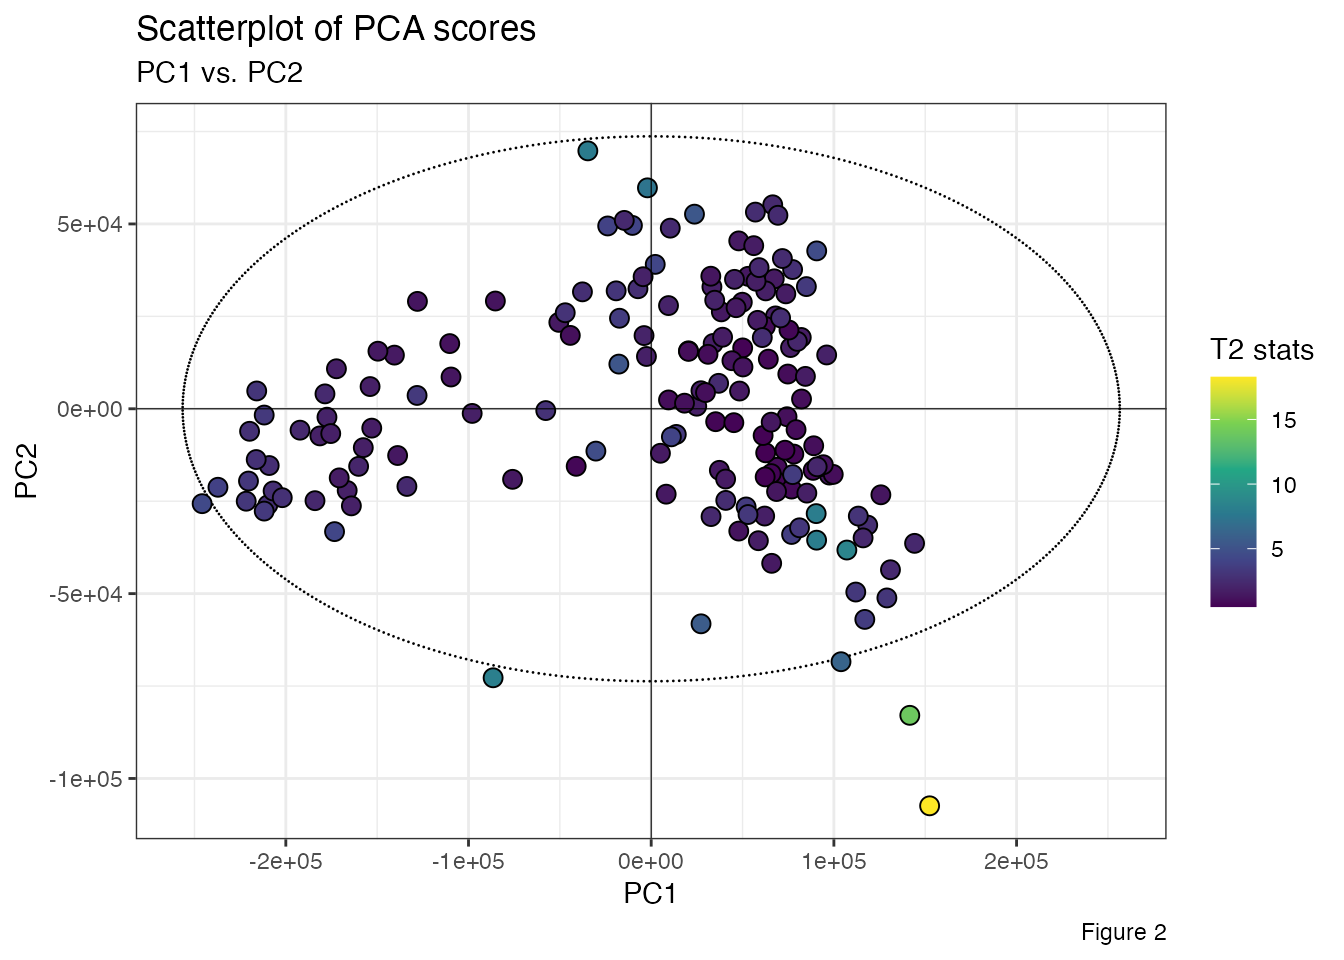
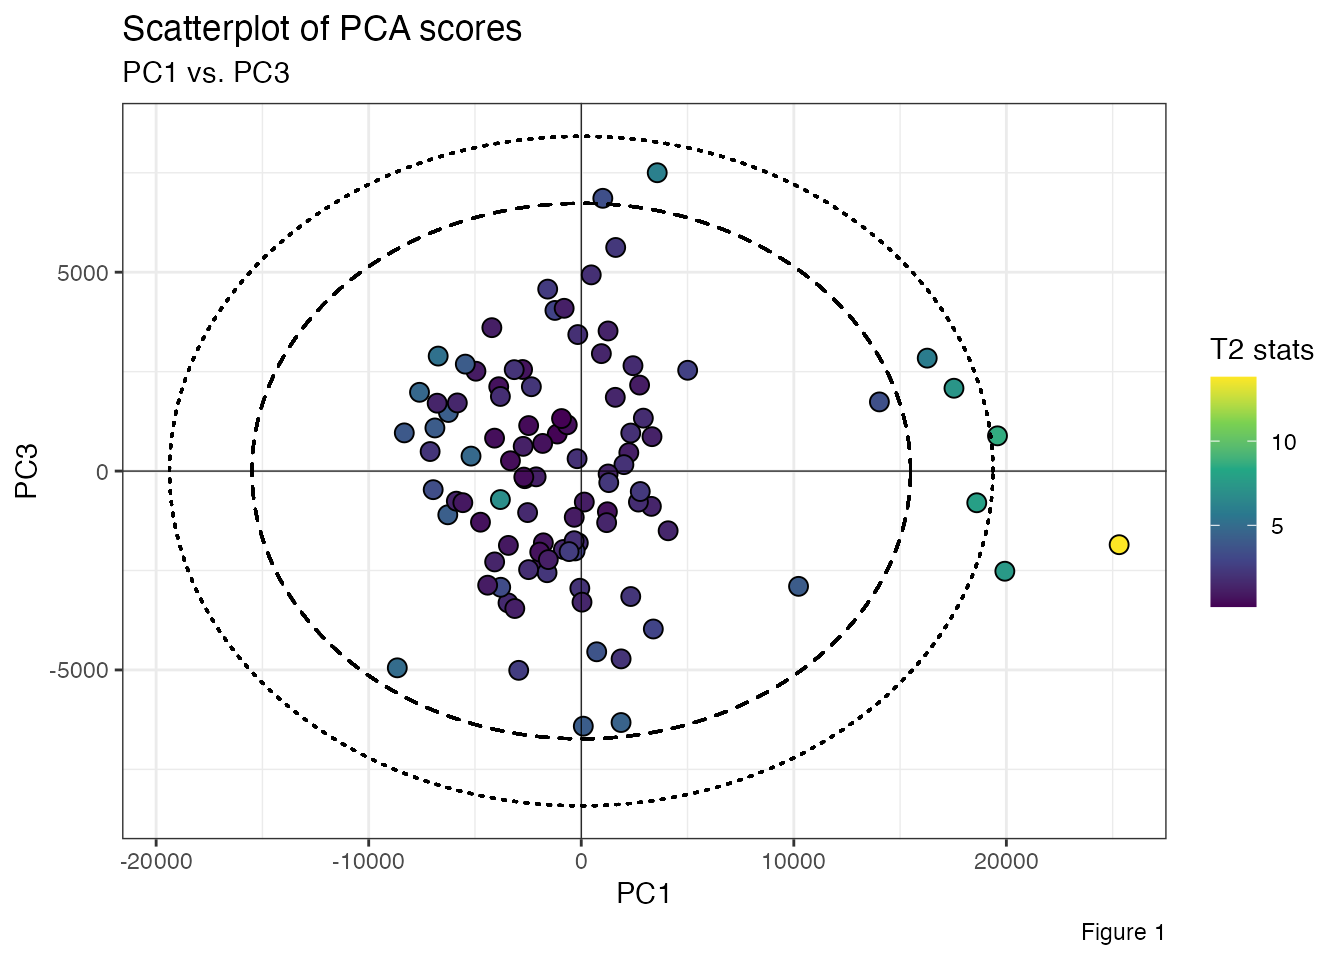
Minor update

diff --git a/docs/articles/HotellingEllipse.html b/docs/articles/HotellingEllipse.html
@@ -112,9 +112,8 @@
 <div class="sourceCode" id="cb4"><pre class="downlit sourceCode r">
 <code class="sourceCode R"><span><span class="va">pca_scores</span> <span class="op">&lt;-</span> <span class="va">pca_mod</span> <span class="op"><a href="../reference/pipe.html">%&gt;%</a></span></span>
 <span>  <span class="fu">pluck</span><span class="op">(</span><span class="st">"ind"</span>, <span class="st">"coord"</span><span class="op">)</span> <span class="op"><a href="../reference/pipe.html">%&gt;%</a></span></span>
-<span>  <span class="fu"><a href="https://tibble.tidyverse.org/reference/as_tibble.html" class="external-link">as_tibble</a></span><span class="op">(</span><span class="op">)</span></span></code></pre></div>
-<div class="sourceCode" id="cb5"><pre class="downlit sourceCode r">
-<code class="sourceCode R"><span><span class="va">pca_scores</span></span>
+<span>  <span class="fu"><a href="https://tibble.tidyverse.org/reference/as_tibble.html" class="external-link">as_tibble</a></span><span class="op">(</span><span class="op">)</span> <span class="op"><a href="../reference/pipe.html">%&gt;%</a></span></span>
+<span>  <span class="fu"><a href="https://rdrr.io/r/base/print.html" class="external-link">print</a></span><span class="op">(</span><span class="op">)</span></span>
 <span><span class="co">#&gt; <span style="color: #949494;"># A tibble: 100 × 5</span></span></span>
 <span><span class="co">#&gt;      Dim.1    Dim.2  Dim.3   Dim.4 Dim.5</span></span>
 <span><span class="co">#&gt;      <span style="color: #949494; font-style: italic;">&lt;dbl&gt;</span>    <span style="color: #949494; font-style: italic;">&lt;dbl&gt;</span>  <span style="color: #949494; font-style: italic;">&lt;dbl&gt;</span>   <span style="color: #949494; font-style: italic;">&lt;dbl&gt;</span> <span style="color: #949494; font-style: italic;">&lt;dbl&gt;</span></span></span>
@@ -133,39 +132,58 @@
 <div class="section level2">
 <h2 id="hotelling-ellipse-semi-axes">Hotelling ellipse: semi-axes<a class="anchor" aria-label="anchor" href="#hotelling-ellipse-semi-axes"></a>
 </h2>
-<p>To add a confidence ellipse, we use the function <code><a href="../reference/ellipseParam.html">ellipseParam()</a></code>. We want to compute the length of the ellipse semi-axes for bivariate data within the PC1-PC2 subspace. To do this, we set the number of components, k, to 2, while the pcx and pcy inputs are respectively set to 1 and 2.</p>
+<p>To add a confidence ellipse, we use the function <code><a href="../reference/ellipseParam.html">ellipseParam()</a></code>. We want to compute the length of the ellipse semi-axes for bivariate data within the PC1-PC3 subspace. To do this, we set the number of components, k, to 2, while the pcx and pcy inputs are respectively set to 1 and 3.</p>
+<div class="sourceCode" id="cb5"><pre class="downlit sourceCode r">
+<code class="sourceCode R"><span><span class="va">res</span> <span class="op">&lt;-</span> <span class="fu"><a href="../reference/ellipseParam.html">ellipseParam</a></span><span class="op">(</span>data <span class="op">=</span> <span class="va">pca_scores</span>, k <span class="op">=</span> <span class="fl">2</span>, pcx <span class="op">=</span> <span class="fl">1</span>, pcy <span class="op">=</span> <span class="fl">3</span><span class="op">)</span></span></code></pre></div>
 <div class="sourceCode" id="cb6"><pre class="downlit sourceCode r">
-<code class="sourceCode R"><span><span class="va">res</span> <span class="op">&lt;-</span> <span class="fu"><a href="../reference/ellipseParam.html">ellipseParam</a></span><span class="op">(</span>data <span class="op">=</span> <span class="va">pca_scores</span>, k <span class="op">=</span> <span class="fl">2</span>, pcx <span class="op">=</span> <span class="fl">1</span>, pcy <span class="op">=</span> <span class="fl">2</span><span class="op">)</span></span></code></pre></div>
-<div class="sourceCode" id="cb7"><pre class="downlit sourceCode r">
 <code class="sourceCode R"><span><span class="fu"><a href="https://rdrr.io/r/utils/str.html" class="external-link">str</a></span><span class="op">(</span><span class="va">res</span><span class="op">)</span></span>
 <span><span class="co">#&gt; List of 4</span></span>
 <span><span class="co">#&gt;  $ Tsquare     : tibble [100 × 1] (S3: tbl_df/tbl/data.frame)</span></span>
 <span><span class="co">#&gt;   ..$ value: num [1:100] 13.8 2.08 1.06 2.82 1.4 ...</span></span>
 <span><span class="co">#&gt;  $ Ellipse     : tibble [1 × 4] (S3: tbl_df/tbl/data.frame)</span></span>
 <span><span class="co">#&gt;   ..$ a.99pct: num 19369</span></span>
-<span><span class="co">#&gt;   ..$ b.99pct: num 10800</span></span>
+<span><span class="co">#&gt;   ..$ b.99pct: num 8416</span></span>
 <span><span class="co">#&gt;   ..$ a.95pct: num 15492</span></span>
-<span><span class="co">#&gt;   ..$ b.95pct: num 8639</span></span>
+<span><span class="co">#&gt;   ..$ b.95pct: num 6732</span></span>
 <span><span class="co">#&gt;  $ cutoff.99pct: num 9.76</span></span>
 <span><span class="co">#&gt;  $ cutoff.95pct: num 6.24</span></span></code></pre></div>
 <p>We can extract parameters for further use:</p>
 <ul>
 <li>Semi-axes of the ellipse at 99% confidence level.</li>
 </ul>
-<div class="sourceCode" id="cb8"><pre class="downlit sourceCode r">
+<div class="sourceCode" id="cb7"><pre class="downlit sourceCode r">
 <code class="sourceCode R"><span><span class="va">a1</span> <span class="op">&lt;-</span> <span class="fu">pluck</span><span class="op">(</span><span class="va">res</span>, <span class="st">"Ellipse"</span>, <span class="st">"a.99pct"</span><span class="op">)</span></span>
 <span><span class="va">b1</span> <span class="op">&lt;-</span> <span class="fu">pluck</span><span class="op">(</span><span class="va">res</span>, <span class="st">"Ellipse"</span>, <span class="st">"b.99pct"</span><span class="op">)</span></span></code></pre></div>
 <ul>
 <li>Semi-axes of the ellipse at 95% confidence level.</li>
 </ul>
-<div class="sourceCode" id="cb9"><pre class="downlit sourceCode r">
+<div class="sourceCode" id="cb8"><pre class="downlit sourceCode r">
 <code class="sourceCode R"><span><span class="va">a2</span> <span class="op">&lt;-</span> <span class="fu">pluck</span><span class="op">(</span><span class="va">res</span>, <span class="st">"Ellipse"</span>, <span class="st">"a.95pct"</span><span class="op">)</span></span>
 <span><span class="va">b2</span> <span class="op">&lt;-</span> <span class="fu">pluck</span><span class="op">(</span><span class="va">res</span>, <span class="st">"Ellipse"</span>, <span class="st">"b.95pct"</span><span class="op">)</span></span></code></pre></div>
 <ul>
 <li>Hotelling’s T<span class="math inline">\(^2\)</span> value.</li>
 </ul>
-<div class="sourceCode" id="cb10"><pre class="downlit sourceCode r">
+<div class="sourceCode" id="cb9"><pre class="downlit sourceCode r">
 <code class="sourceCode R"><span><span class="va">Tsq</span> <span class="op">&lt;-</span> <span class="fu">pluck</span><span class="op">(</span><span class="va">res</span>, <span class="st">"Tsquare"</span>, <span class="st">"value"</span><span class="op">)</span></span></code></pre></div>
+<div class="sourceCode" id="cb10"><pre class="downlit sourceCode r">
+<code class="sourceCode R"><span><span class="va">pca_scores</span> <span class="op"><a href="../reference/pipe.html">%&gt;%</a></span></span>
+<span>  <span class="fu">ggplot</span><span class="op">(</span><span class="fu">aes</span><span class="op">(</span>x <span class="op">=</span> <span class="va">Dim.1</span>, y <span class="op">=</span> <span class="va">Dim.3</span><span class="op">)</span><span class="op">)</span> <span class="op">+</span></span>
+<span>  <span class="fu">geom_point</span><span class="op">(</span><span class="fu">aes</span><span class="op">(</span>fill <span class="op">=</span> <span class="va">Tsq</span><span class="op">)</span>, shape <span class="op">=</span> <span class="fl">21</span>, size <span class="op">=</span> <span class="fl">3</span>, color <span class="op">=</span> <span class="st">"black"</span><span class="op">)</span> <span class="op">+</span></span>
+<span>  <span class="fu">scale_fill_viridis_c</span><span class="op">(</span>option <span class="op">=</span> <span class="st">"viridis"</span><span class="op">)</span> <span class="op">+</span></span>
+<span>  <span class="fu">geom_ellipse</span><span class="op">(</span><span class="fu">aes</span><span class="op">(</span>x0 <span class="op">=</span> <span class="fl">0</span>, y0 <span class="op">=</span> <span class="fl">0</span>, a <span class="op">=</span> <span class="va">a1</span>, b <span class="op">=</span> <span class="va">b1</span>, angle <span class="op">=</span> <span class="fl">0</span><span class="op">)</span>, size <span class="op">=</span> <span class="fl">.5</span>, linetype <span class="op">=</span> <span class="st">"dotted"</span><span class="op">)</span> <span class="op">+</span> </span>
+<span>  <span class="fu">geom_ellipse</span><span class="op">(</span><span class="fu">aes</span><span class="op">(</span>x0 <span class="op">=</span> <span class="fl">0</span>, y0 <span class="op">=</span> <span class="fl">0</span>, a <span class="op">=</span> <span class="va">a2</span>, b <span class="op">=</span> <span class="va">b2</span>, angle <span class="op">=</span> <span class="fl">0</span><span class="op">)</span>, size <span class="op">=</span> <span class="fl">.5</span>, linetype <span class="op">=</span> <span class="st">"dashed"</span><span class="op">)</span> <span class="op">+</span></span>
+<span>  <span class="fu">geom_hline</span><span class="op">(</span>yintercept <span class="op">=</span> <span class="fl">0</span>, linetype <span class="op">=</span> <span class="st">"solid"</span>, color <span class="op">=</span> <span class="st">"black"</span>, size <span class="op">=</span> <span class="fl">.2</span><span class="op">)</span> <span class="op">+</span></span>
+<span>  <span class="fu">geom_vline</span><span class="op">(</span>xintercept <span class="op">=</span> <span class="fl">0</span>, linetype <span class="op">=</span> <span class="st">"solid"</span>, color <span class="op">=</span> <span class="st">"black"</span>, size <span class="op">=</span> <span class="fl">.2</span><span class="op">)</span> <span class="op">+</span></span>
+<span>  <span class="fu">labs</span><span class="op">(</span></span>
+<span>    title <span class="op">=</span> <span class="st">"Scatterplot of PCA scores"</span>, </span>
+<span>    subtitle <span class="op">=</span> <span class="st">"PC1 vs. PC3"</span>, </span>
+<span>    x <span class="op">=</span> <span class="st">"PC1"</span>, </span>
+<span>    y <span class="op">=</span> <span class="st">"PC3"</span>, </span>
+<span>    fill <span class="op">=</span> <span class="st">"T2 stats"</span>, </span>
+<span>    caption <span class="op">=</span> <span class="st">"Figure 1"</span></span>
+<span>    <span class="op">)</span> <span class="op">+</span></span>
+<span>  <span class="fu">theme_bw</span><span class="op">(</span><span class="op">)</span></span></code></pre></div>
+<p><img src="HotellingEllipse_files/figure-html/unnamed-chunk-12-1.png" width="672" style="display: block; margin: auto;"></p>
 </div>
 <div class="section level2">
 <h2 id="hotelling-ellipse-x-and-y-coordinates">Hotelling ellipse: x and y coordinates<a class="anchor" aria-label="anchor" href="#hotelling-ellipse-x-and-y-coordinates"></a>

diff --git a/docs/reference/specData.html b/docs/reference/specData.html
@@ -1,5 +1,5 @@
 <!DOCTYPE html>
-<!-- Generated by pkgdown: do not edit by hand --><html lang="en"><head><meta http-equiv="Content-Type" content="text/html; charset=UTF-8"><meta charset="utf-8"><meta http-equiv="X-UA-Compatible" content="IE=edge"><meta name="viewport" content="width=device-width, initial-scale=1.0"><title>LIBS spectra of 100 soil samples — specData • HotellingEllipse</title><!-- favicons --><link rel="icon" type="image/png" sizes="16x16" href="../favicon-16x16.png"><link rel="icon" type="image/png" sizes="32x32" href="../favicon-32x32.png"><link rel="apple-touch-icon" type="image/png" sizes="180x180" href="../apple-touch-icon.png"><link rel="apple-touch-icon" type="image/png" sizes="120x120" href="../apple-touch-icon-120x120.png"><link rel="apple-touch-icon" type="image/png" sizes="76x76" href="../apple-touch-icon-76x76.png"><link rel="apple-touch-icon" type="image/png" sizes="60x60" href="../apple-touch-icon-60x60.png"><!-- jquery --><script src="https://cdnjs.cloudflare.com/ajax/libs/jquery/3.4.1/jquery.min.js" integrity="sha256-CSXorXvZcTkaix6Yvo6HppcZGetbYMGWSFlBw8HfCJo=" crossorigin="anonymous"></script><!-- Bootstrap --><link rel="stylesheet" href="https://cdnjs.cloudflare.com/ajax/libs/twitter-bootstrap/3.4.1/css/bootstrap.min.css" integrity="sha256-bZLfwXAP04zRMK2BjiO8iu9pf4FbLqX6zitd+tIvLhE=" crossorigin="anonymous"><script src="https://cdnjs.cloudflare.com/ajax/libs/twitter-bootstrap/3.4.1/js/bootstrap.min.js" integrity="sha256-nuL8/2cJ5NDSSwnKD8VqreErSWHtnEP9E7AySL+1ev4=" crossorigin="anonymous"></script><!-- bootstrap-toc --><link rel="stylesheet" href="../bootstrap-toc.css"><script src="../bootstrap-toc.js"></script><!-- Font Awesome icons --><link rel="stylesheet" href="https://cdnjs.cloudflare.com/ajax/libs/font-awesome/5.12.1/css/all.min.css" integrity="sha256-mmgLkCYLUQbXn0B1SRqzHar6dCnv9oZFPEC1g1cwlkk=" crossorigin="anonymous"><link rel="stylesheet" href="https://cdnjs.cloudflare.com/ajax/libs/font-awesome/5.12.1/css/v4-shims.min.css" integrity="sha256-wZjR52fzng1pJHwx4aV2AO3yyTOXrcDW7jBpJtTwVxw=" crossorigin="anonymous"><!-- clipboard.js --><script src="https://cdnjs.cloudflare.com/ajax/libs/clipboard.js/2.0.6/clipboard.min.js" integrity="sha256-inc5kl9MA1hkeYUt+EC3BhlIgyp/2jDIyBLS6k3UxPI=" crossorigin="anonymous"></script><!-- headroom.js --><script src="https://cdnjs.cloudflare.com/ajax/libs/headroom/0.11.0/headroom.min.js" integrity="sha256-AsUX4SJE1+yuDu5+mAVzJbuYNPHj/WroHuZ8Ir/CkE0=" crossorigin="anonymous"></script><script src="https://cdnjs.cloudflare.com/ajax/libs/headroom/0.11.0/jQuery.headroom.min.js" integrity="sha256-ZX/yNShbjqsohH1k95liqY9Gd8uOiE1S4vZc+9KQ1K4=" crossorigin="anonymous"></script><!-- pkgdown --><link href="../pkgdown.css" rel="stylesheet"><script src="../pkgdown.js"></script><meta property="og:title" content="LIBS spectra of 100 soil samples — specData"><meta property="og:description" content="A dataset containing the emission spectra of 171 soils measured in laboratory conditions.
+<!-- Generated by pkgdown: do not edit by hand --><html lang="en"><head><meta http-equiv="Content-Type" content="text/html; charset=UTF-8"><meta charset="utf-8"><meta http-equiv="X-UA-Compatible" content="IE=edge"><meta name="viewport" content="width=device-width, initial-scale=1.0"><title>LIBS spectra of 100 soil samples — specData • HotellingEllipse</title><!-- favicons --><link rel="icon" type="image/png" sizes="16x16" href="../favicon-16x16.png"><link rel="icon" type="image/png" sizes="32x32" href="../favicon-32x32.png"><link rel="apple-touch-icon" type="image/png" sizes="180x180" href="../apple-touch-icon.png"><link rel="apple-touch-icon" type="image/png" sizes="120x120" href="../apple-touch-icon-120x120.png"><link rel="apple-touch-icon" type="image/png" sizes="76x76" href="../apple-touch-icon-76x76.png"><link rel="apple-touch-icon" type="image/png" sizes="60x60" href="../apple-touch-icon-60x60.png"><!-- jquery --><script src="https://cdnjs.cloudflare.com/ajax/libs/jquery/3.4.1/jquery.min.js" integrity="sha256-CSXorXvZcTkaix6Yvo6HppcZGetbYMGWSFlBw8HfCJo=" crossorigin="anonymous"></script><!-- Bootstrap --><link rel="stylesheet" href="https://cdnjs.cloudflare.com/ajax/libs/twitter-bootstrap/3.4.1/css/bootstrap.min.css" integrity="sha256-bZLfwXAP04zRMK2BjiO8iu9pf4FbLqX6zitd+tIvLhE=" crossorigin="anonymous"><script src="https://cdnjs.cloudflare.com/ajax/libs/twitter-bootstrap/3.4.1/js/bootstrap.min.js" integrity="sha256-nuL8/2cJ5NDSSwnKD8VqreErSWHtnEP9E7AySL+1ev4=" crossorigin="anonymous"></script><!-- bootstrap-toc --><link rel="stylesheet" href="../bootstrap-toc.css"><script src="../bootstrap-toc.js"></script><!-- Font Awesome icons --><link rel="stylesheet" href="https://cdnjs.cloudflare.com/ajax/libs/font-awesome/5.12.1/css/all.min.css" integrity="sha256-mmgLkCYLUQbXn0B1SRqzHar6dCnv9oZFPEC1g1cwlkk=" crossorigin="anonymous"><link rel="stylesheet" href="https://cdnjs.cloudflare.com/ajax/libs/font-awesome/5.12.1/css/v4-shims.min.css" integrity="sha256-wZjR52fzng1pJHwx4aV2AO3yyTOXrcDW7jBpJtTwVxw=" crossorigin="anonymous"><!-- clipboard.js --><script src="https://cdnjs.cloudflare.com/ajax/libs/clipboard.js/2.0.6/clipboard.min.js" integrity="sha256-inc5kl9MA1hkeYUt+EC3BhlIgyp/2jDIyBLS6k3UxPI=" crossorigin="anonymous"></script><!-- headroom.js --><script src="https://cdnjs.cloudflare.com/ajax/libs/headroom/0.11.0/headroom.min.js" integrity="sha256-AsUX4SJE1+yuDu5+mAVzJbuYNPHj/WroHuZ8Ir/CkE0=" crossorigin="anonymous"></script><script src="https://cdnjs.cloudflare.com/ajax/libs/headroom/0.11.0/jQuery.headroom.min.js" integrity="sha256-ZX/yNShbjqsohH1k95liqY9Gd8uOiE1S4vZc+9KQ1K4=" crossorigin="anonymous"></script><!-- pkgdown --><link href="../pkgdown.css" rel="stylesheet"><script src="../pkgdown.js"></script><meta property="og:title" content="LIBS spectra of 100 soil samples — specData"><meta property="og:description" content="A dataset containing the emission spectra of 100 soils measured in laboratory conditions.
 The samples were cleaned, dried, homogenized, sieved (10 Mesh size) and thereafter pelletized prior to LIBS measurements.
 LIBS spectra were preprocessed by performing baseline removal."><meta property="og:image" content="https://pkgdown.r-lib.org, https://github.com/ChristianGoueguel/HotellingEllipse/logo.png"><!-- mathjax --><script src="https://cdnjs.cloudflare.com/ajax/libs/mathjax/2.7.5/MathJax.js" integrity="sha256-nvJJv9wWKEm88qvoQl9ekL2J+k/RWIsaSScxxlsrv8k=" crossorigin="anonymous"></script><script src="https://cdnjs.cloudflare.com/ajax/libs/mathjax/2.7.5/config/TeX-AMS-MML_HTMLorMML.js" integrity="sha256-84DKXVJXs0/F8OTMzX4UR909+jtl4G7SPypPavF+GfA=" crossorigin="anonymous"></script><!--[if lt IE 9]>
 <script src="https://oss.maxcdn.com/html5shiv/3.7.3/html5shiv.min.js"></script>
@@ -54,7 +54,7 @@ LIBS spectra were preprocessed by performing baseline removal."><meta property="
     </div>
 
     <div class="ref-description">
-    <p>A dataset containing the emission spectra of 171 soils measured in laboratory conditions.
+    <p>A dataset containing the emission spectra of 100 soils measured in laboratory conditions.
 The samples were cleaned, dried, homogenized, sieved (10 Mesh size) and thereafter pelletized prior to LIBS measurements.
 LIBS spectra were preprocessed by performing baseline removal.</p>
     </div>

diff --git a/docs/reference/ellipseParam.html b/docs/reference/ellipseParam.html
@@ -83,8 +83,8 @@
 
 <p>Returns a list that includes:</p><ol><li><p><strong>Tsquare</strong> Data frame containing the T-squared statistic.</p></li>
 <li><p><strong>Ellipse</strong> Data frame containing the lengths of the semi-minor and semi-major axes.</p></li>
-<li><p><strong>cutoff.99pct</strong> Number corresponding to the T-square cutoff at 99% confidence level.</p></li>
-<li><p><strong>cutoff.95pct</strong> Number corresponding to the T-square cutoff at 95% confidence level.</p></li>
+<li><p><strong>cutoff.99pct</strong> Number corresponding to the T-squared cutoff at 99% confidence level.</p></li>
+<li><p><strong>cutoff.95pct</strong> Number corresponding to the T-squared cutoff at 95% confidence level.</p></li>
 </ol></div>
     <div id="author">
     <h2>Author</h2>
